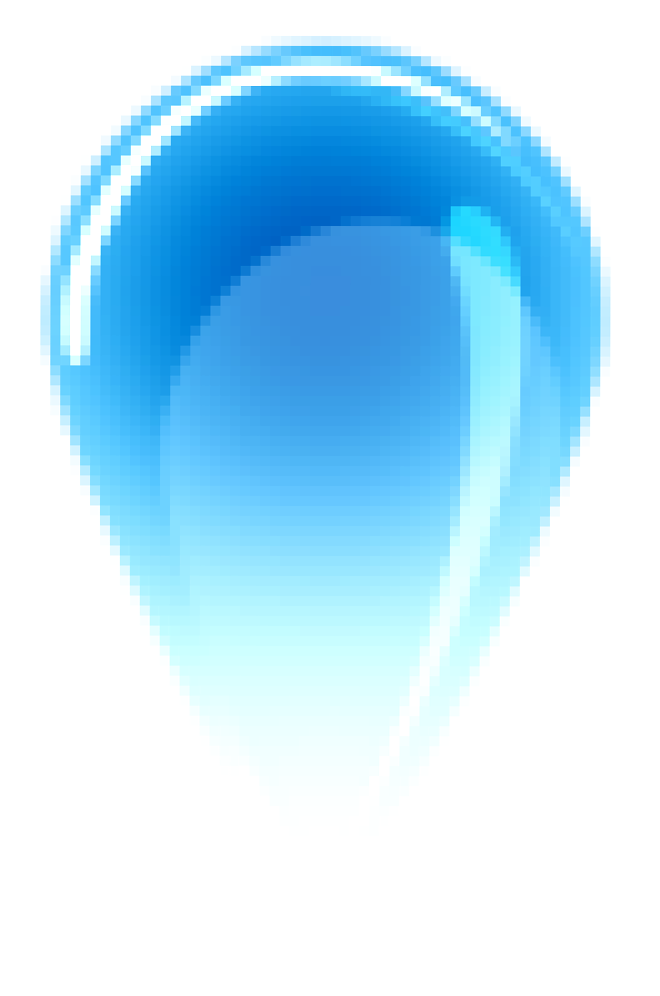
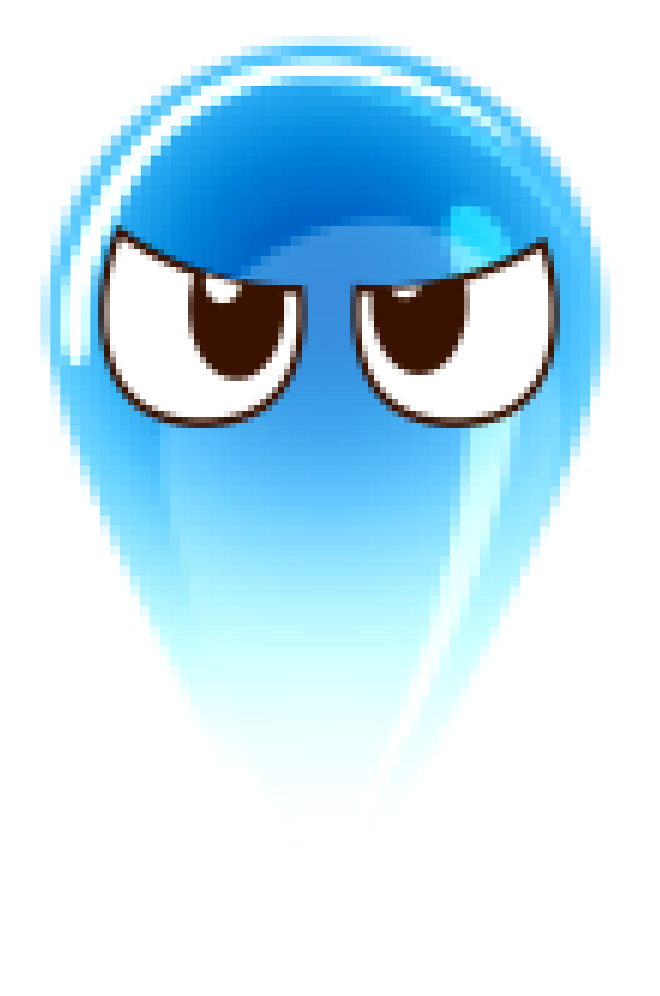
Fix the bug with the enter keyword and update the drop image.

Changed region(s): [[0.1515, 0.2179, 0.4848, 0.4357], [0.5152, 0.2179, 0.8485, 0.4357]]

diff --git a/Assets/Scenes/DropletController.cs b/Assets/Scenes/DropletController.cs
@@ -1,3 +1,4 @@
+using System.Collections;
 using UnityEngine;
 using UnityEngine.SceneManagement;
 using UnityEngine.UI;
@@ -25,11 +26,12 @@ public class DropletController : MonoBehaviour
 
     private static float VEL_X_MAX = 0.2f;
 
+    [System.Obsolete]
     private void Update()
     {
         if (IsLevelCleared())
         {
-            Debug.Log("Level Cleared ");
+            Debug.Log("Level Cleared: " + score);
             PauseGame();
             UpdateLevel(currentLevel + 1);
             nextNarrationTextIndex = 0;
@@ -56,26 +58,37 @@ public class DropletController : MonoBehaviour
             UpdateLevel(1);
         }
 
-        if (isShowingStory) {
-            if (Input.GetKey(KeyCode.Return))
+        if (isShowingStory)
+        {
+            if (Input.GetKeyUp(KeyCode.Return))
             {
                 nextNarrationTextIndex += 1;
+                Debug.Log("Narration Index Inside: " + nextNarrationTextIndex);
             }
 
-            narrationArea.SetActive(true);
+            if (!narrationArea.active)
+            {
+                narrationArea.SetActive(true);
+            }
 
             PauseGame();
             ShowStory();
 
-            if (nextNarrationTextIndex > 3)
+            Debug.Log("Narration Index: " + nextNarrationTextIndex);
+
+            if (IsStoryFinished())
             {
                 isShowingStory = false;
                 gamePaused = false;
-                narrationArea.SetActive(false);
+                if (narrationArea.active)
+                {
+                    narrationArea.SetActive(false);
+                }
             }
         }
     }
 
+    [System.Obsolete]
     private void LateUpdate()
     {
         if (!gamePaused)
@@ -99,8 +112,6 @@ public class DropletController : MonoBehaviour
         {
             gameOverScreen.SetActive(true);
             gameOver.Play();
-
-            nextNarrationTextIndex = 0;
             gameFinished = true;
             PauseGame();
         }
@@ -108,8 +119,14 @@ public class DropletController : MonoBehaviour
 
     private void PauseGame()
     {
-        Time.timeScale = 0;
-        gamePaused = true;
+        if (Time.timeScale != 0)
+        {
+            Time.timeScale = 0;
+        }
+        if (!gamePaused)
+        {
+            gamePaused = true;
+        }
     }
 
     private void Move()
@@ -158,6 +175,28 @@ public class DropletController : MonoBehaviour
         );
     }
 
+    private bool IsStoryFinished()
+    {
+        if (currentLevel == 1)
+        {
+            return nextNarrationTextIndex > 2;
+        }
+        else if (currentLevel == 2)
+        {
+            return nextNarrationTextIndex > 3;
+        }
+        else if (currentLevel == 3)
+        {
+            return nextNarrationTextIndex > 1;
+        }
+        else if (currentLevel == 4)
+        {
+            return nextNarrationTextIndex > 1;
+        }
+
+        return false;
+    }
+
     private bool IsLevelCleared()
     {
         bool isLevelCleared = false;
@@ -169,7 +208,7 @@ public class DropletController : MonoBehaviour
         {
             isLevelCleared = score > 7000;
         }
-        if (currentLevel == 3)
+        else if (currentLevel == 3)
         {
             isLevelCleared = score > 12000;
         }
@@ -234,6 +273,25 @@ public class DropletController : MonoBehaviour
                     "Dingwall in a thriller in January of last year, County " +
                     "have lost their past three encounters with Rangers. " +
                     "Aggregate score? 9 - 1.";
+            }
+            else if (nextNarrationTextIndex == 3)
+            {
+                storyText.text = "Press 1 to move further in trunk or 2 " +
+                    "to move towards a branch for photosynthesis.";
+            }
+        }
+        else if (currentLevel == 3)
+        {
+            if (nextNarrationTextIndex == 1)
+            {
+                storyText.text = "This is the last level of the game.";
+            }
+        }
+        else if (currentLevel == 4)
+        {
+            if (nextNarrationTextIndex == 1)
+            {
+                storyText.text = "This is the end of the game, Well done!!!";
             }
         }
     }
